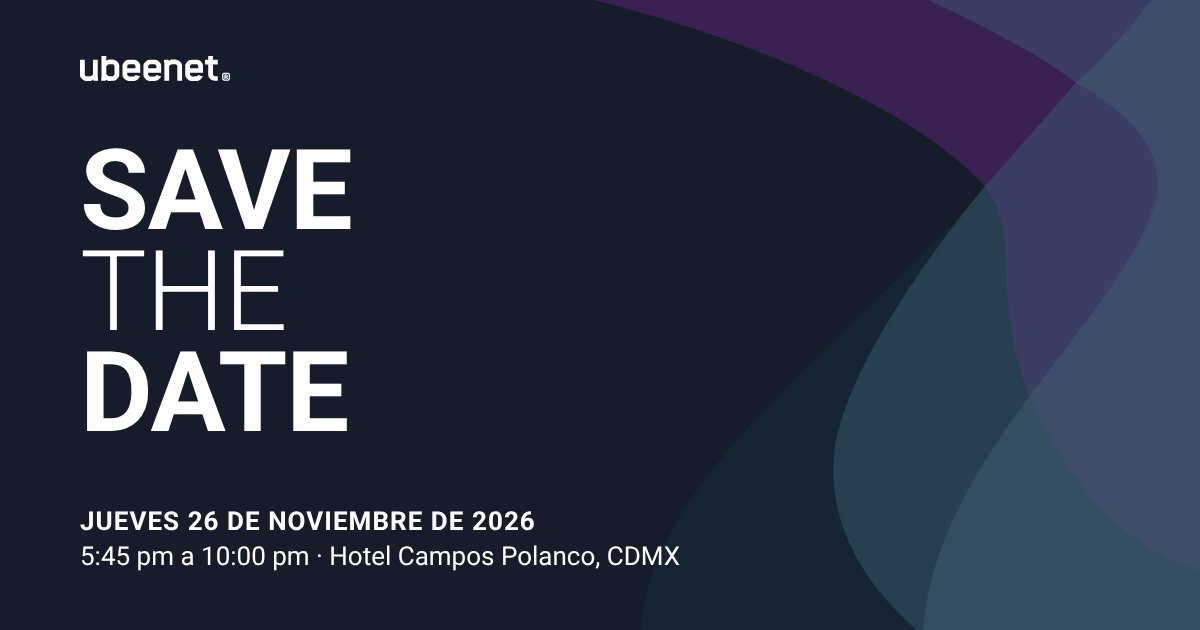
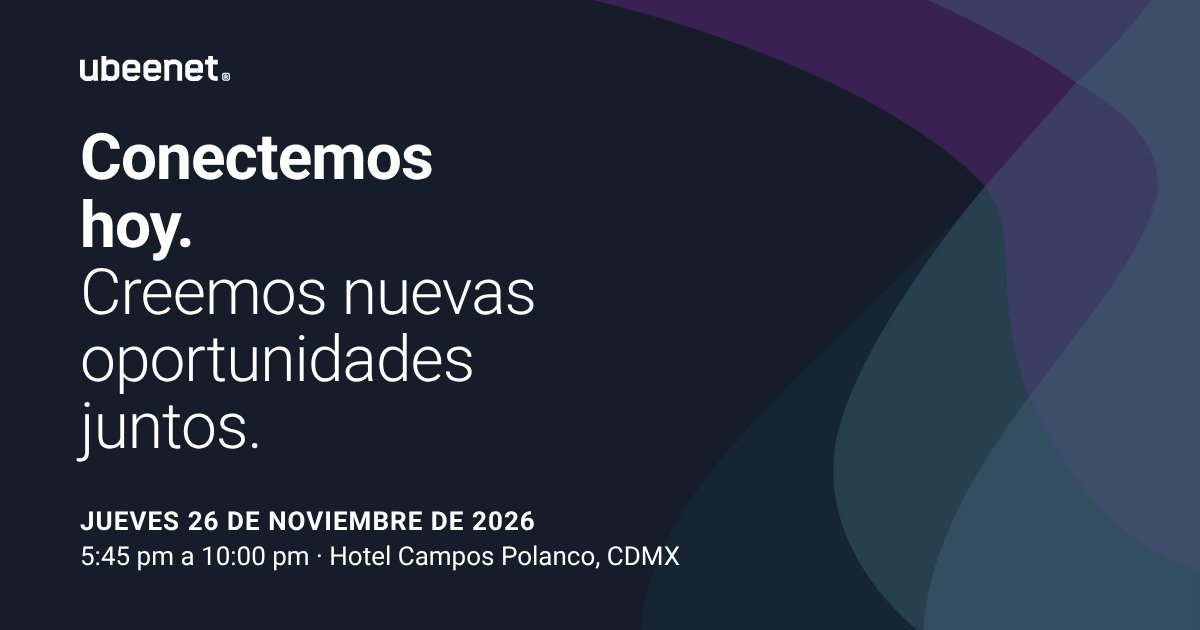
New hero headline and subtitle from the client
Headline "Conectemos hoy. Creemos nuevas oportunidades juntos." (Roboto
700/300) and the new subtitle, with spelling corrected; meta title,
description and OG image follow.

Claude-Session: https://claude.ai/code/session_01TdaMnfg424ZMKrGWqLmLWb

Changed region(s): [[0.0617, 0.2111, 0.4625, 0.7238]]

diff --git a/src/config/event.ts b/src/config/event.ts
@@ -42,18 +42,18 @@ export const event = {
     note: 'Contaremos con servicio de valet parking.',
   },
   meta: {
-    title: 'Save the date · Ubeenet · 26 de noviembre de 2026',
+    title: 'Conectemos hoy · Ubeenet · 26 de noviembre de 2026',
     description:
-      'Una tarde para conectar, compartir ideas y explorar oportunidades juntos. Jueves 26 de noviembre de 2026, Hotel Campos Polanco, CDMX.',
+      'Regístrate y acompáñanos en una tarde para compartir ideas, fortalecer relaciones y descubrir nuevas oportunidades de negocios. Jueves 26 de noviembre de 2026, Hotel Campos Polanco, CDMX.',
   },
   hero: {
-    // Texto de la invitación. Cada palabra va en su línea; el peso replica la invitación.
+    // Cada frase va en su propia línea; el contraste de pesos (700/300) viene de la invitación.
     title: [
-      { text: 'SAVE', weight: 700 },
-      { text: 'THE', weight: 300 },
-      { text: 'DATE', weight: 700 },
+      { text: 'Conectemos hoy.', weight: 700 },
+      { text: 'Creemos nuevas oportunidades juntos.', weight: 300 },
     ],
-    subtitle: 'Una tarde para conectar, compartir ideas y explorar oportunidades juntos.',
+    subtitle:
+      'Regístrate y acompáñanos en una tarde para compartir ideas, fortalecer relaciones y descubrir nuevas oportunidades de negocios.',
     day: 'Jueves',
     date: '26 de noviembre',
   },

diff --git a/supabase/functions/_shared/event.ts b/supabase/functions/_shared/event.ts
@@ -43,18 +43,18 @@ export const event = {
     note: 'Contaremos con servicio de valet parking.',
   },
   meta: {
-    title: 'Save the date · Ubeenet · 26 de noviembre de 2026',
+    title: 'Conectemos hoy · Ubeenet · 26 de noviembre de 2026',
     description:
-      'Una tarde para conectar, compartir ideas y explorar oportunidades juntos. Jueves 26 de noviembre de 2026, Hotel Campos Polanco, CDMX.',
+      'Regístrate y acompáñanos en una tarde para compartir ideas, fortalecer relaciones y descubrir nuevas oportunidades de negocios. Jueves 26 de noviembre de 2026, Hotel Campos Polanco, CDMX.',
   },
   hero: {
-    // Texto de la invitación. Cada palabra va en su línea; el peso replica la invitación.
+    // Cada frase va en su propia línea; el contraste de pesos (700/300) viene de la invitación.
     title: [
-      { text: 'SAVE', weight: 700 },
-      { text: 'THE', weight: 300 },
-      { text: 'DATE', weight: 700 },
+      { text: 'Conectemos hoy.', weight: 700 },
+      { text: 'Creemos nuevas oportunidades juntos.', weight: 300 },
     ],
-    subtitle: 'Una tarde para conectar, compartir ideas y explorar oportunidades juntos.',
+    subtitle:
+      'Regístrate y acompáñanos en una tarde para compartir ideas, fortalecer relaciones y descubrir nuevas oportunidades de negocios.',
     day: 'Jueves',
     date: '26 de noviembre',
   },

diff --git a/DESIGN.md b/DESIGN.md
@@ -3,7 +3,7 @@
 Base: §3 de `PROMPT_CLAUDE_CODE.md`, **ajustado por el cliente (oct 2026) para empatar con ubeenet.com**: bloques de color con curva, líneas blancas finas, grotesca ligera en titulares grandes, botones píldora y formulario en panel blanco. Tokens en `src/styles/tokens.css`.
 
 ## Concepto
-**La invitación como hero.** El hero reproduce la invitación "Save the date" del cliente: titular SAVE THE DATE, subtítulo y datos con íconos sobre el fondo oscuro, y las formas orgánicas de la invitación a la derecha, enmarcando el formulario blanco. El resto de la página sigue el lenguaje de ubeenet.com. Sin video ni animación automática.
+**La invitación como hero.** El hero reproduce la invitación "Save the date" del cliente: titular "Conectemos hoy. Creemos nuevas oportunidades juntos.", subtítulo y datos con íconos sobre el fondo oscuro, y las formas orgánicas de la invitación a la derecha, enmarcando el formulario blanco. El resto de la página sigue el lenguaje de ubeenet.com. Sin video ni animación automática.
 
 ## Color
 | Token | Valor | Uso |
@@ -25,7 +25,7 @@ El amarillo #CDA41B no se usa en ningún lugar.
 Contrastes: blanco/noche 18.6:1, suave/noche 10.3:1, tinta/niebla 13.9:1, tinta-suave/niebla 6:1, tinta-suave/blanco 8:1, enlace-claro/blanco 5.6:1, error-claro/blanco 5.4:1.
 
 ## Tipografía
-**Roboto** variable (la de la invitación) solo en el hero: SAVE y DATE en 700, THE en 300, subtítulo 400, datos en mayúsculas 700/300.
+**Roboto** variable (la de la invitación) solo en el hero: primera frase del titular en 700, segunda en 300, subtítulo 400, datos en mayúsculas 700/300.
 
 **Hanken Grotesk** variable (wght 100–900), auto-hospedada en `src/assets/fonts`. Es la grotesca libre más cercana a la del sitio (no fue posible leer el sitio para confirmar el nombre de su fuente; si el cliente comparte el archivo, se cambia en `tokens.css`). Titulares en peso 300 y grandes (display 88 px, H2 68 px en desktop), cuerpo 400, datos y títulos de lista 500. Sentence case, sin eyebrows, cuerpo ≤ 65ch.
 

diff --git a/CLAUDE.md b/CLAUDE.md
@@ -15,6 +15,6 @@ Landing de registro de Ubeenet Connect 2026. Especificación: `PROMPT_CLAUDE_COD
 - Estilo: empatar con ubeenet.com (bloques oscuro/claro con curva, líneas blancas, grotesca ligera, botones píldora, formulario en panel blanco) y con la invitación en el hero. Ver `DESIGN.md`. El amarillo #CDA41B no se usa.
 - Fecha y horario (los de la invitación): jueves 26 de noviembre de 2026, 5:45 pm a 10:00 pm (CDMX). El cliente no quiere agenda en la landing.
 - Avisos y copias de cada registro: **elia@blanconuclear.com.mx** (secret `NOTIFY_EMAIL`; la Edge Function lo usa por defecto si el secret no existe).
-- Hero = invitación "Save the date" del cliente: titular SAVE THE DATE en Roboto (700/300/700), subtítulo de la invitación y formas del fondo redibujadas en vector (`src/components/HeroShapes.astro`, colores exactos de la invitación). Sin video ni animación de fondo. El formulario va en el hero (desktop a la derecha, móvil debajo de los datos).
+- Hero = invitación "Save the date" del cliente: titular "Conectemos hoy. / Creemos nuevas oportunidades juntos." en Roboto (700/300), subtítulo del cliente y formas del fondo redibujadas en vector (`src/components/HeroShapes.astro`, colores exactos de la invitación). Sin video ni animación de fondo. El formulario va en el hero (desktop a la derecha, móvil debajo de los datos).
 - Sección Partners oculta hasta confirmar participantes (`Partners.astro` existe, no se usa en `index.astro`).
 - Diseño: `DESIGN.md`. Producto: `PRODUCT.md`.
